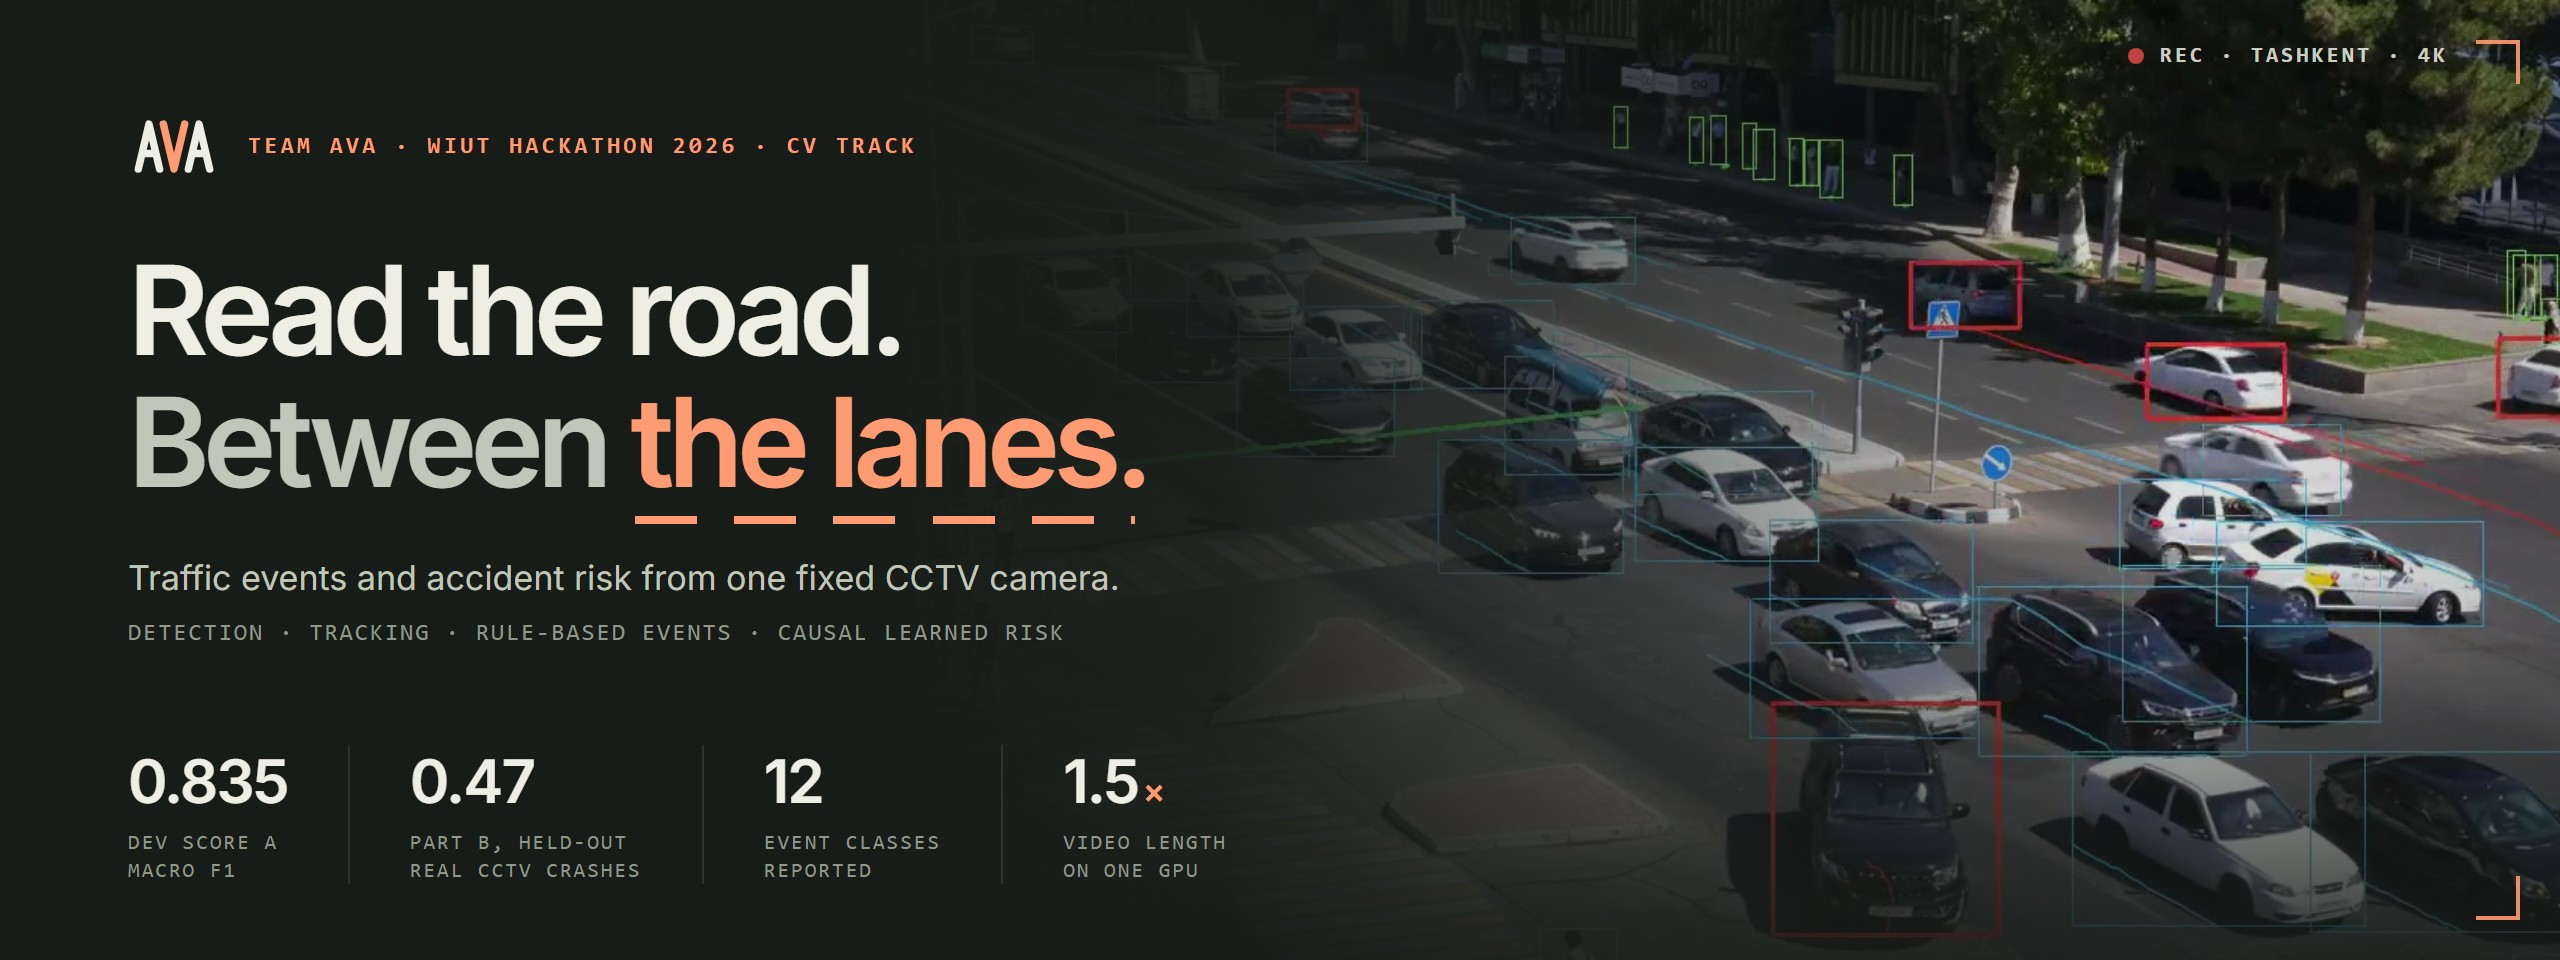
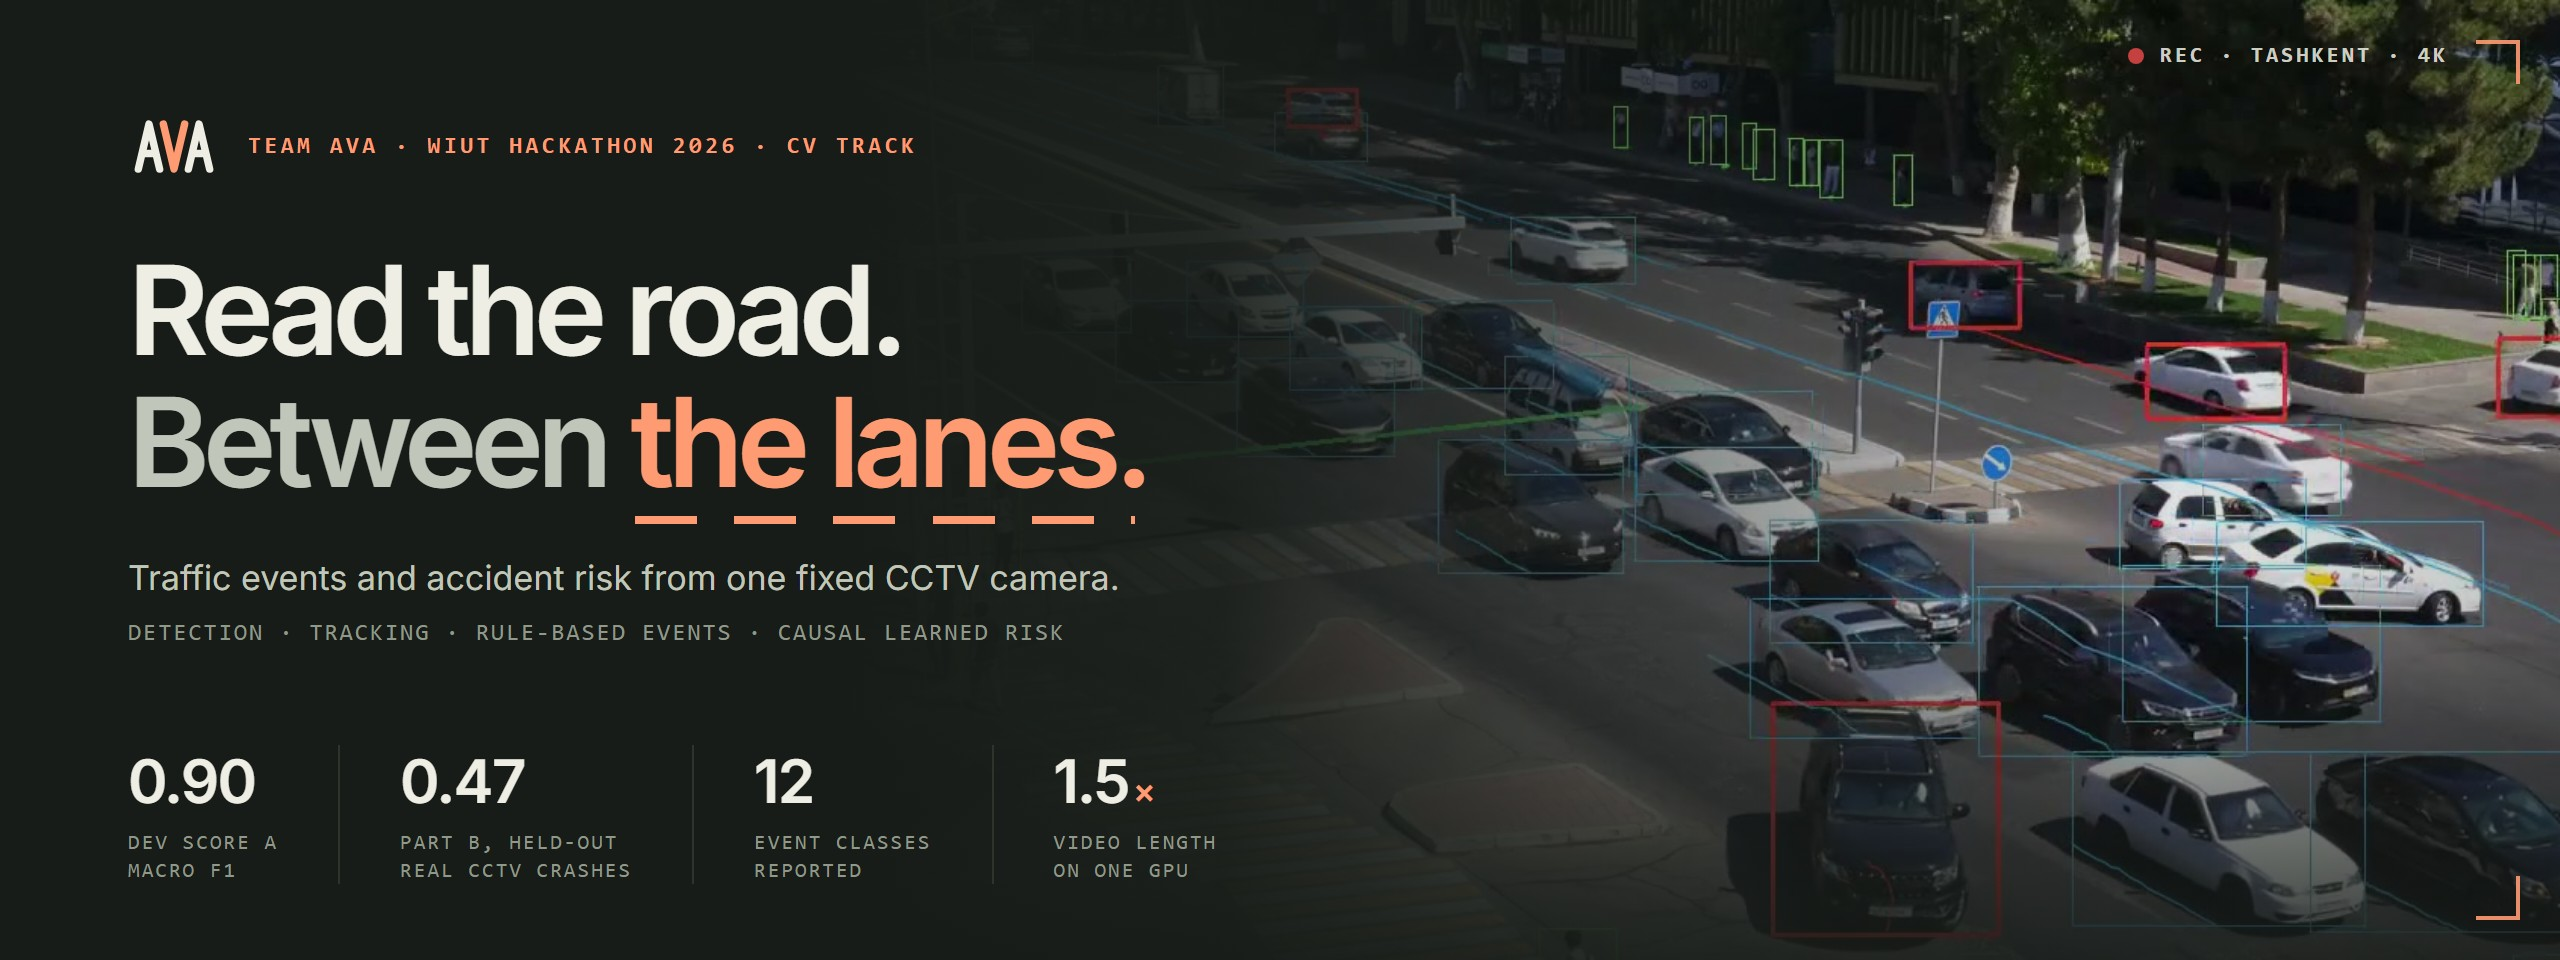
docs: Score A 0.90

diff --git a/README.md b/README.md
@@ -1,4 +1,4 @@
-<p align="center"><img src="docs/banner.jpg" alt="AVA: traffic events and accident risk from one fixed CCTV camera. Dev Score A 0.835, Part B 0.47 on held-out real CCTV crashes, 12 event classes, 1.5x the video length on one GPU." width="100%"></p>
+<p align="center"><img src="docs/banner.jpg" alt="AVA: traffic events and accident risk from one fixed CCTV camera. Dev Score A 0.90, Part B 0.47 on held-out real CCTV crashes, 12 event classes, 1.5x the video length on one GPU." width="100%"></p>
 
 # AVA — WIUT Hackathon 2026, CV track
 
@@ -27,10 +27,10 @@ Runtime of the official harness on the sample videos (RTX 2060 Super, i5-12400F,
 
 | video | duration | Part A | total (A + B) | × duration |
 |---|---|---|---|---|
-| C3896 | 340 s | 187 s | 512 s | 1.50 |
-| C3897 | 318 s | 182 s | 485 s | 1.53 |
-| C3902 | 318 s | 163 s | 481 s | 1.51 |
-| C3905 | 128 s | 63 s | 187 s | 1.46 |
+| C3896 | 340 s | 177 s | 505 s | 1.48 |
+| C3897 | 318 s | 153 s | 455 s | 1.43 |
+| C3902 | 318 s | 155 s | 460 s | 1.45 |
+| C3905 | 128 s | 61 s | 183 s | 1.44 |
 
 The budget is 3× the duration; about 0.6× of Part B is the harness itself decoding every 4K
 10-bit frame with OpenCV. `predictions_samples.json` is the output of exactly this run.
@@ -165,16 +165,25 @@ occurs in the labels counts, as in the official Score A.
 | red_light | 1.00 | 1.00 | 1.00 | **1.00** | 1/0/0 |
 | stop_line | 1.00 | 1.00 | 1.00 | **1.00** | 5/0/0 |
 | stopped_vehicle | 1.00 | 1.00 | 1.00 | **1.00** | 4/0/0 |
-| congestion | 0.89 | 0.89 | 0.89 | **0.89** | 4/1/0 |
-| illegal_turn | 1.00 | 1.00 | 0.60 | **0.87** | 5/0/0 |
-| jaywalking | 0.85 | 0.85 | 0.60 | **0.77** | 17/4/2 |
-| solid_line_crossing | 0.93 | 0.53 | 0.40 | **0.62** | 4/4/3 |
-| failure_to_yield | 0.69 | 0.51 | 0.42 | **0.54** | 17/19/14 |
+| congestion | 1.00 | 1.00 | 1.00 | **1.00** | 4/0/0 |
+| illegal_turn | 1.00 | 1.00 | 1.00 | **1.00** | 5/0/0 |
+| solid_line_crossing | 0.94 | 0.94 | 0.71 | **0.86** | 8/0/1 |
+| jaywalking | 0.84 | 0.84 | 0.61 | **0.76** | 18/3/4 |
+| failure_to_yield | 0.75 | 0.55 | 0.46 | **0.59** | 19/19/12 |
 
-**Score A = 0.835** (micro F1@0.3/0.5/0.7 = 0.82/0.71/0.57). The sample videos contain no accident,
-so Part B cannot be scored on them; its alarm threshold is calibrated to at most ~0.2 false alarms
-per minute of ordinary traffic: the harness output above raises one alarm in the 18.4 min of sample
-traffic (C3896 at 70 s, peak 0.53; elsewhere the risk stays below 0.48). See also [Validation on real accident footage](#validation-on-real-accident-footage).
+**Score A = 0.90** (0.9015; micro F1@0.3/0.5/0.7 = 0.85/0.77/0.65). The sample videos contain no
+accident, so Part B cannot be scored on them; its alarm point is the lowest level that raises no
+false alarm on held-out sample videos, and the harness output above raises no alarm in the 18.4 min
+of sample traffic (the risk peaks at 0.41–0.44, in the first seconds of each video). See also
+[Validation on real accident footage](#validation-on-real-accident-footage).
+
+How it got there: 0.787 → 0.835 from one error analysis per weak class, then → 0.90 from a second
+round in which every change had to follow the official start/end convention or fix a logic bug, pass
+a leave-one-video-out check for any threshold, and survive an independent reviewer who re-ran it
+(illegal_turn and solid_line_crossing end conventions, congestion of the main road only, buses at a
+stop, early starts on red+yellow, failure_to_yield judged against the vehicle's remaining path;
+three proposals were rejected as fits to the dev set). With the first 76 labels the same code
+scores 0.88.
 
 Reported classes: red_light, stop_line, jaywalking, failure_to_yield, wrong_way, stopped_vehicle,
 solid_line_crossing, illegal_turn, congestion, road_obstacle, fire_smoke, accident. wrong_way,
@@ -183,9 +192,11 @@ them (so they cannot add a false class there). Detected but not reported:
 illegal_u_turn (frequent and not visibly prohibited) and near_miss (every candidate rejected on
 inspection) — see `dev/decisions.md`.
 
-The dev labels (`dev/labels.json`, 18.4 min, 76 events) were made with the protocol in
-`dev/README.md`: a blind sweep, an independent re-check of every event, and a third check of every
-detector event the labels did not contain (which added 14 events the first pass had missed).
+The dev labels (`dev/labels.json`, 18.4 min, 81 events) were made with the protocol in
+`dev/README.md`: a blind sweep, an independent re-check of every event, a third check of every
+detector event the labels did not contain (which added 14 events the first pass had missed), and a
+blind re-check (frames only, no detector output) of windows where rules and labels still disagreed
+(7 corrections, `dev/label_corrections.json`).
 
 ## Ablations
 
@@ -195,15 +206,15 @@ changed and scores the same rules with the official `evaluate.py` on our dev lab
 
 | variant | Score A | micro F1@0.5 | analysis time (× video) |
 |---|---|---|---|
-| YOLO26-L · 1280 px · 10 fps **(submitted)** | 0.835 | 0.71 | 0.48× |
-| YOLO26-M · 1280 px · 10 fps | 0.788 | 0.67 | 0.44× |
-| YOLO26-S · 1280 px · 10 fps | 0.748 | 0.63 | 0.43× |
-| YOLO11-L · 1280 px · 10 fps | 0.802 | 0.68 | 0.47× |
-| YOLO26-L · 960 px · 10 fps | 0.765 | 0.64 | 0.43× |
-| YOLO26-L · 1280 px · 5 fps | 0.775 | 0.66 | 0.42× |
+| YOLO26-L · 1280 px · 10 fps **(submitted)** | 0.901 | 0.77 | 0.48× |
+| YOLO26-M · 1280 px · 10 fps | 0.841 | 0.73 | 0.44× |
+| YOLO26-S · 1280 px · 10 fps | 0.807 | 0.69 | 0.43× |
+| YOLO11-L · 1280 px · 10 fps | 0.866 | 0.74 | 0.47× |
+| YOLO26-L · 960 px · 10 fps | 0.839 | 0.71 | 0.43× |
+| YOLO26-L · 1280 px · 5 fps | 0.819 | 0.71 | 0.42× |
 
 * The large detector at full input size and 10 fps is worth its cost: every cheaper setting loses
-  0.03–0.09 of Score A, mostly on the pedestrian classes and on lane changes, and saves little
+  0.04–0.09 of Score A, mostly on the pedestrian classes and on lane changes, and saves little
   time, because decoding the 4K 10-bit stream on the CPU dominates the analysis pass.
 * Halving the frame rate is the worst trade: tracks break and speeds get noisy.
 * The ablations exposed a real risk: with any of the cheaper settings, the old kinematic accident
@@ -212,9 +223,9 @@ changed and scores the same rules with the official `evaluate.py` on our dev lab
   0.70/0.66/0.68/0.62 for M/S/960 px/5 fps before the fix). The kinematic branch had found none of
   the 36 real crashes either, so it was dropped, and wrong_way now needs 2 s and 100 px; the
   submitted configuration is unchanged by both fixes.
-* Class confusion (`python scripts/confusion.py`, `dev/confusion.json`): of 66 labelled events matched
+* Class confusion (`python scripts/confusion.py`, `dev/confusion.json`): of 71 labelled events matched
   at tIoU ≥ 0.3 regardless of class, none gets the wrong class; the errors are misses (10) and false
-  alarms (19), most of them failure_to_yield.
+  alarms (15), most of them failure_to_yield.
 
 ## Validation on real accident footage
 

diff --git a/STATUS.md b/STATUS.md
@@ -1,10 +1,10 @@
 # Work status
 
 ## Final state (2026-09-27)
-- `predictions_samples.json`: official harness run on all four samples — 1.46–1.53× the video
-  duration (budget 3×), format VALID; Part A events identical to the previous run.
+- `predictions_samples.json`: official harness run on all four samples — 1.43–1.48× the video
+  duration (budget 3×), format VALID; Part B output identical to the previous run (deterministic).
 - Dev score (official `evaluate.py`, all labelled classes, all four videos end to end,
-  `scripts/export_metrics.py`): **Score A = 0.835** — red_light 1.00, stop_line 1.00, stopped_vehicle 1.00, congestion 0.89, illegal_turn 0.87, jaywalking 0.77, solid_line_crossing 0.62, failure_to_yield 0.54; micro F1@0.5 0.71. Part B not scorable on the samples (no accident in them); the
+  `scripts/export_metrics.py`): **Score A = 0.9015** — red_light 1.00, stop_line 1.00, stopped_vehicle 1.00, congestion 1.00, illegal_turn 1.00, solid_line_crossing 0.86, jaywalking 0.76, failure_to_yield 0.59; micro F1@0.5 0.77 (0.88 with the first 76 labels). Part B not scorable on the samples (no accident in them); the
   official Part B output raises no alarm in their 18.4 min (max 0.44).
 - Reported classes: `src/config.py` `ENABLED_CLASSES` (illegal_u_turn and near_miss off, see
   `dev/decisions.md`).
@@ -38,12 +38,21 @@
   island hops), stopped_vehicle (roadside-kerb distance, car-park apron), solid_line_crossing
   (old-lane evidence clear of the line); the failure_to_yield change was reverted after the check.
 
+## Changes of 2026-09-27
+- Score A 0.835 -> 0.9015: second error-analysis round with a leave-one-video-out check for any
+  threshold and an independent reviewer per change (illegal_turn and solid_line_crossing end
+  conventions, congestion of the main road only, buses at a stop, early starts on red+yellow,
+  failure_to_yield against the vehicle's remaining path; 3 proposals rejected as dev fits), plus 7
+  blind label corrections (`dev/label_corrections.json`). The same code scores 0.88 on the first labels.
+- Part B v2 shipped (above); more crash data (SO-TAD, ACCIDENT) tried and rejected.
+- Demo: 2-s risk warm-up (no alarm before the model has history), 4K size hint.
+
 ## Changes of 2026-09-26
 - Part B learned anticipation layer (above); all 277 TAD accident clips timed (`dev/external/tad_labels.json`).
 - Ablations + class confusion on the website; team roster with contributions; Space deployment files.
 
 ## Dev labels
-- `dev/labels.json` (76 events on 18.4 min) = the verified sweep events merged with
+- `dev/labels.json` (81 events on 18.4 min) = the verified sweep events merged with
   `scripts/collect_labels.py` (the raw annotation log stays out of the repository) + detector-candidate
   checks `dev/fp_check_*.json`.
 

diff --git a/dev/README.md b/dev/README.md
@@ -22,10 +22,14 @@ The annotation brief with the class conventions and scene facts is `BRIEF.md`.
 
 ## Coverage
 
-All four videos are labelled end to end (18.4 min, 76 events after merging). Of 127 first-pass
+All four videos are labelled end to end (18.4 min, 81 events after merging). Of 127 first-pass
 events 32 were rejected by the independent re-check, and 14 detector events that the first pass
 had missed (lane changes over the solid dividers, jaywalkers, three right turns from the wrong
-lane) were confirmed by the third check and added (`fp_check_*.json`).
+lane) were confirmed by the third check and added (`fp_check_*.json`). Windows where the rules and
+the labels still disagreed were re-checked blind (frames only, no detector output); the 7
+medium/high-confidence corrections (3 missed jaywalkers, a lane change split into its two lane
+changes, a missed lane change, one failure_to_yield removed under the refuge policy and one added)
+are in `label_corrections.json` and applied by `scripts/apply_label_corrections.py`.
 
 ## Caveats
 
